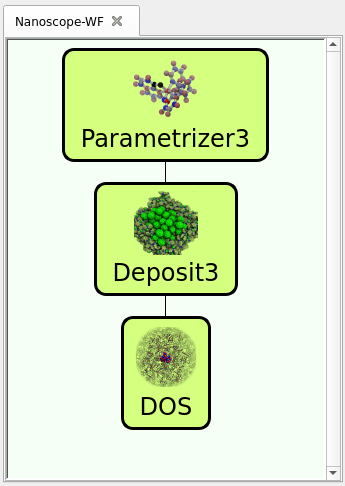
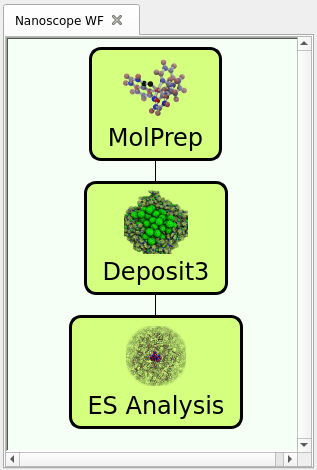
updated to include latest WaNo labels

Changed region(s): [[0.0, 0.0, 0.9937, 1.0]]

diff --git a/docs/source/home/home.rst b/docs/source/home/home.rst
@@ -31,14 +31,14 @@ Nanoscope provides a variety of outputs to help you characterize materials and m
 The full list of outputs is provided in the User Guide sections :ref:`user_guide_computed_properties` and :ref:`user_guide_examples`
 
 
-The Nanoscope Worklfow
+The Nanoscope Workflow
 ------------------------
 
-Nanoscope is based on a multiscale simulation approach and the characterization of OE materials with Nanoscope typically comprises four main steps: 
+Nanoscope is based on a multiscale simulation approach and the characterization of OE materials with Nanoscope typically comprises three main steps:
 
-1. Computation of optimized 3D single molecule structures and customized forcefields: ParamFF
+1. Computation of optimized 3D single molecule structures and customized forcefields: MolPrep
 2. Generation of 3D thin film models with atomistic resolution using a PVD simulation protocol: Deposit
-3. Analysis for the elctronic structure of molecules in the condensed phase, based on morphologies from Deposit
+3. Analysis for the elctronic structure of molecules in the condensed phase, based on morphologies from Deposit: ES Analysis
 
 
 .. figure:: home/Nanoscope_WF.png
@@ -47,7 +47,6 @@ Nanoscope is based on a multiscale simulation approach and the characterization 
    :align: center
 
    Characterization of OE materials using the Nanoscope multiscale simulation workflow
-
 
 
 About Nanomatch
